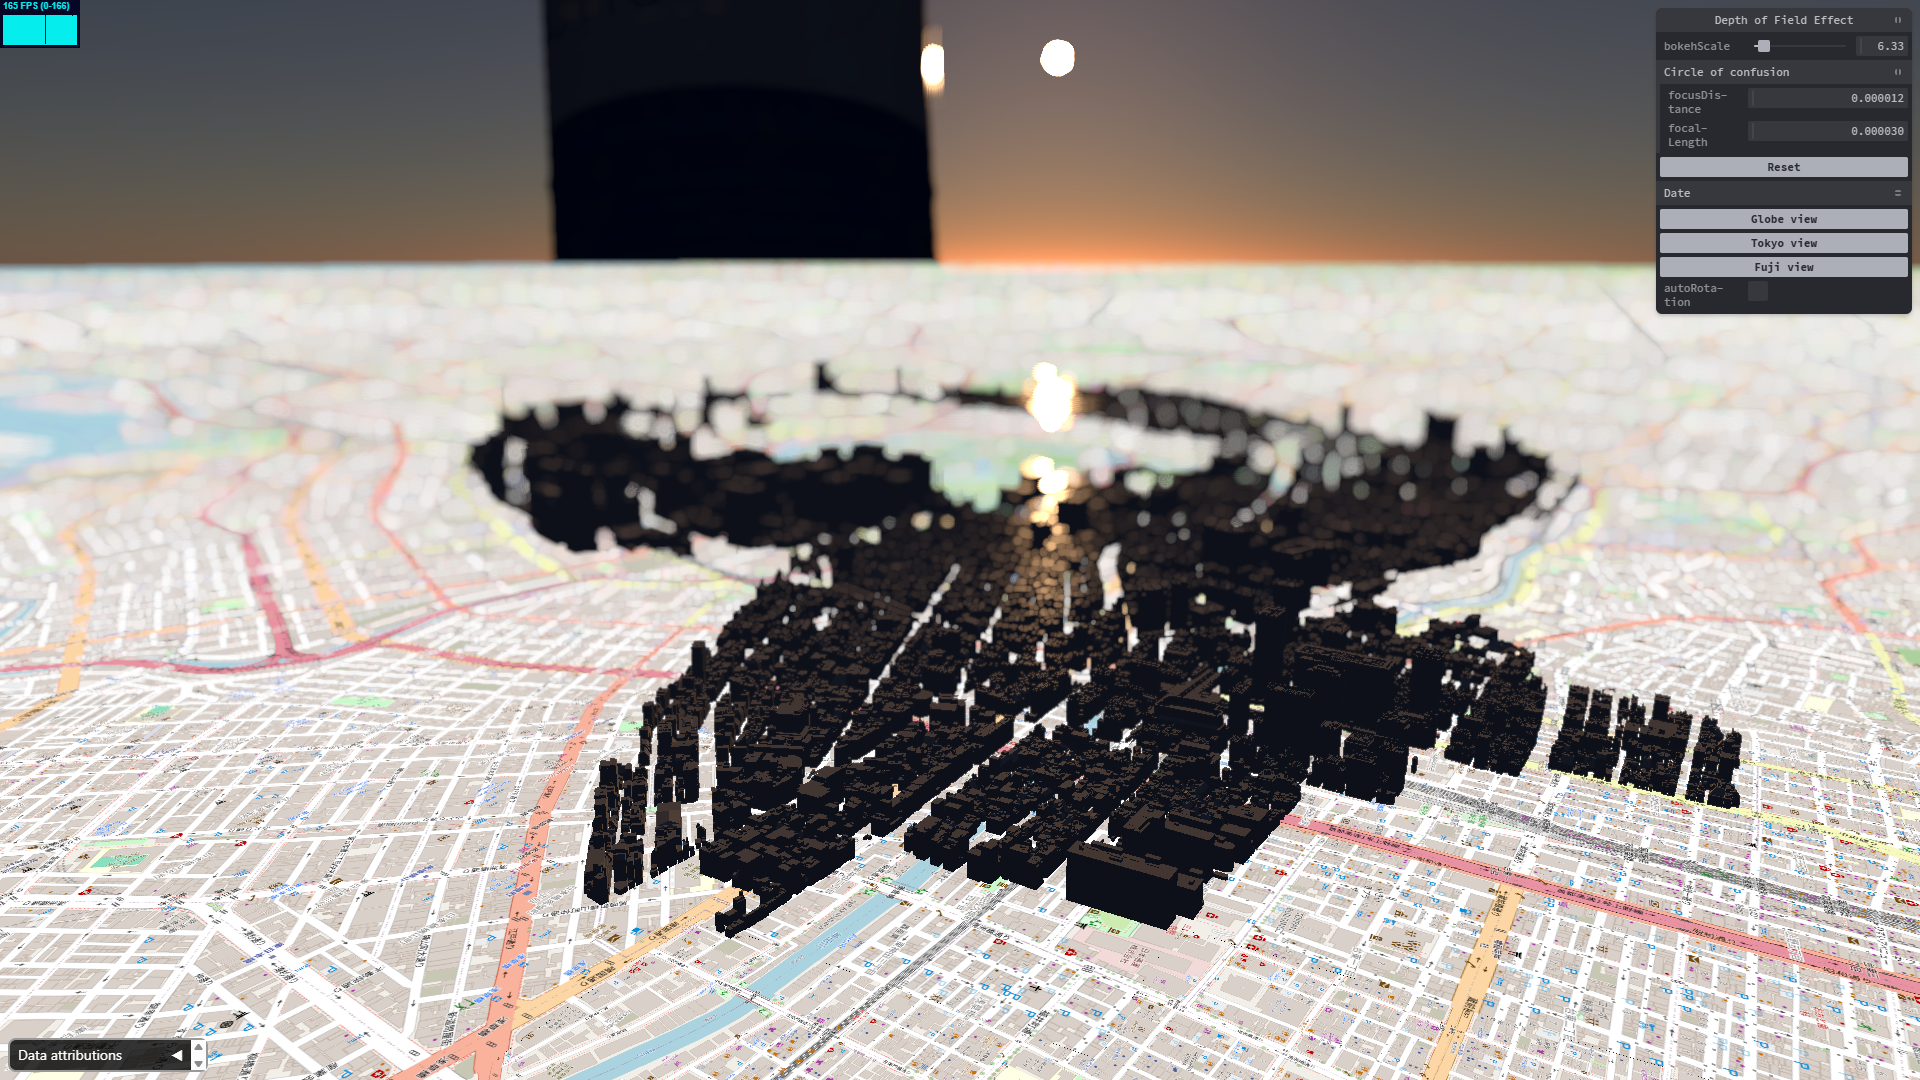
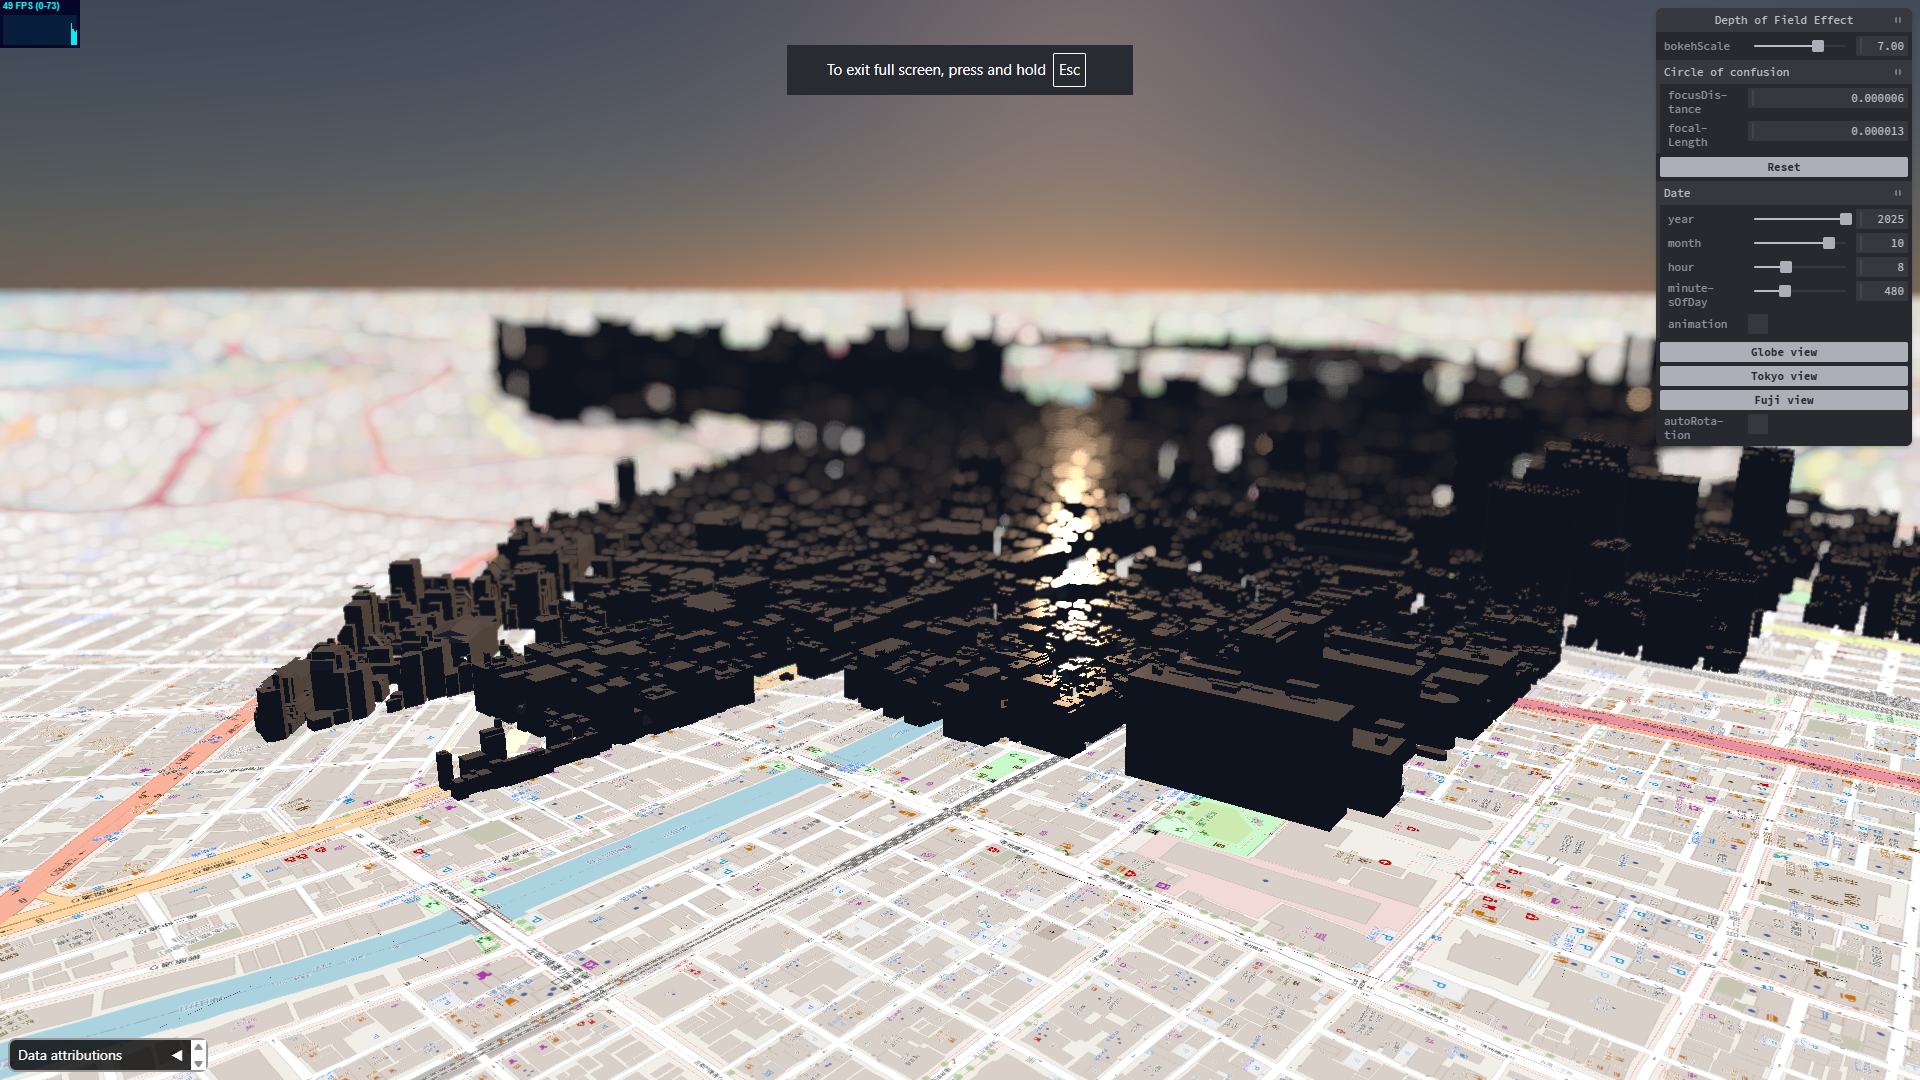
remove steel drum

diff --git a/web/navara_three/example/pages/depth-of-field-effect/run.ts b/web/navara_three/example/pages/depth-of-field-effect/run.ts
@@ -5,11 +5,7 @@ import ThreeView, {
 import { Pane } from "tweakpane";
 
 import { showAttributions } from "../../helpers/attributions";
-import {
-  LOCAL_DATASETS,
-  TILE_DATASETS,
-  TILES_3D_DATASETS,
-} from "../../helpers/constants";
+import { TILE_DATASETS, TILES_3D_DATASETS } from "../../helpers/constants";
 import {
   addHidePaneKeyShortcut,
   addDateControl,
@@ -64,34 +60,6 @@ export const run = async (view: ThreeView) => {
       roughness: 0.1,
       cast_shadow: true,
       receive_shadow: true,
-    },
-  });
-
-  view.addLayer({
-    type: "geojson",
-    data: {
-      type: "FeatureCollection",
-      features: [
-        {
-          type: "Feature",
-          properties: {},
-          geometry: {
-            coordinates: [127.7, 26.2],
-            type: "Point",
-          },
-        },
-      ],
-    },
-    model: {
-      show: true,
-      size: 200000,
-      height: 0,
-      clamp_to_ground: true,
-      url: LOCAL_DATASETS.steelDrumGLTF.url,
-      should_rotate_in_default: true,
-      color: 0xffffff,
-      metalness: 0.1,
-      roughness: 0.1,
     },
   });
 